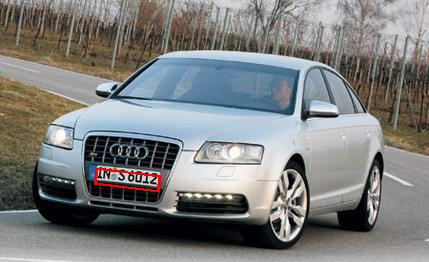
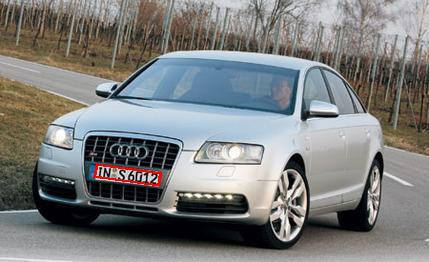
Fix the shift issue of the prediction (#13)
* ensure width and height is multiply of stride

* rebuild sample images

* recompute confidence

Changed region(s): [[0.1818, 0.6107, 0.3939, 0.7328]]

diff --git a/wpodnet/backend.py b/wpodnet/backend.py
@@ -45,6 +45,7 @@ class Predictor:
         [1., 1., 1., 1.]
     ])
     _scaling_const = 7.75
+    _stride = 16
 
     def __init__(self, wpodnet: WPODNet):
         self.wpodnet = wpodnet
@@ -55,10 +56,14 @@ class Predictor:
 
         wh_ratio = max(h, w) / min(h, w)
         side = int(wh_ratio * 288)
-        bound_dim = min(side + side % 16, 608)
+        bound_dim = min(side + side % self._stride, 608)
 
         factor = bound_dim / min(h, w)
         reg_w, reg_h = int(w * factor), int(h * factor)
+
+        # Ensure the both width and height are the multiply of `self._stride`
+        reg_w += self._stride - reg_w % self._stride
+        reg_h += self._stride - reg_h % self._stride
 
         return image.resize((reg_w, reg_h))
 

diff --git a/README.md b/README.md
@@ -26,9 +26,9 @@ The model in Keras is built by the essay author, see [sergiomsilva/alpr-unconstr
     </tr>
     <tr>
         <td> Confidence </td>
-        <td> 0.9705 </td>
-        <td> 0.9828 </td>
-        <td> 0.9987 </td>
+        <td> 0.9841 </td>
+        <td> 0.9945 </td>
+        <td> 0.9979 </td>
     </tr>
 </table>
 
